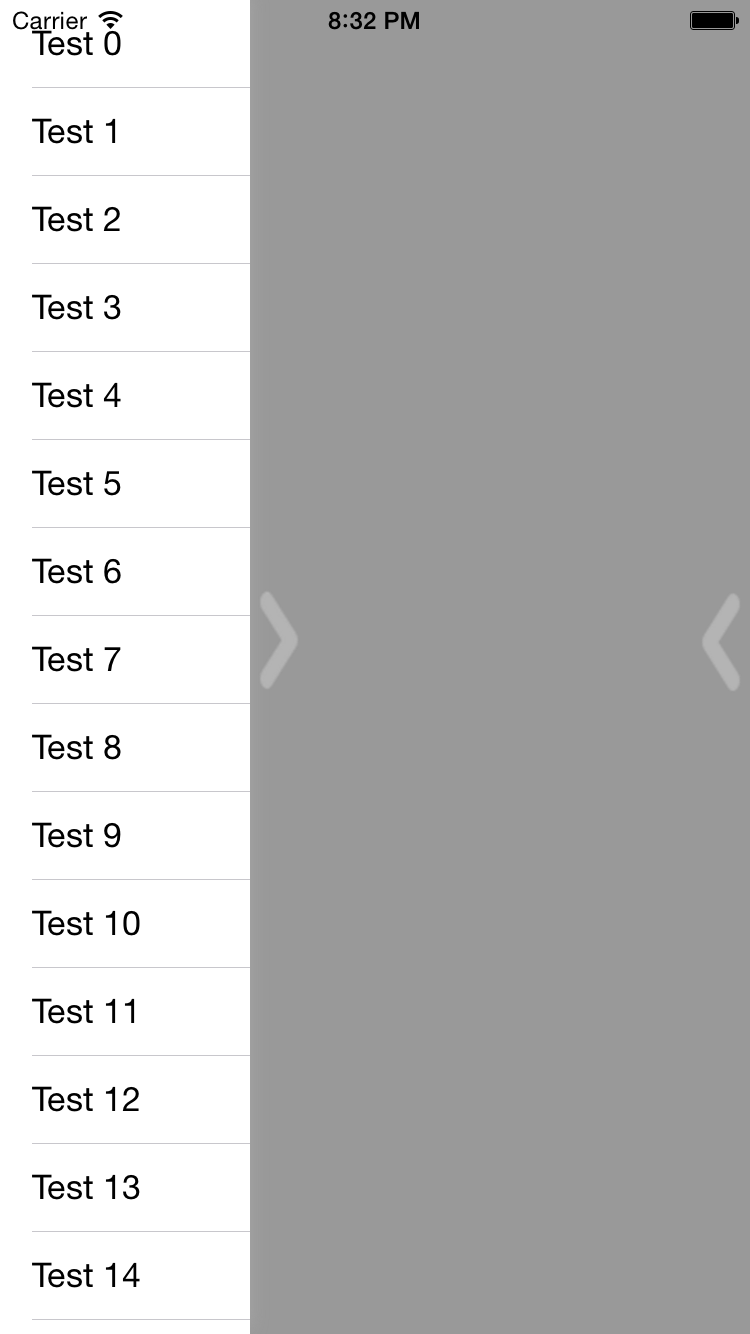
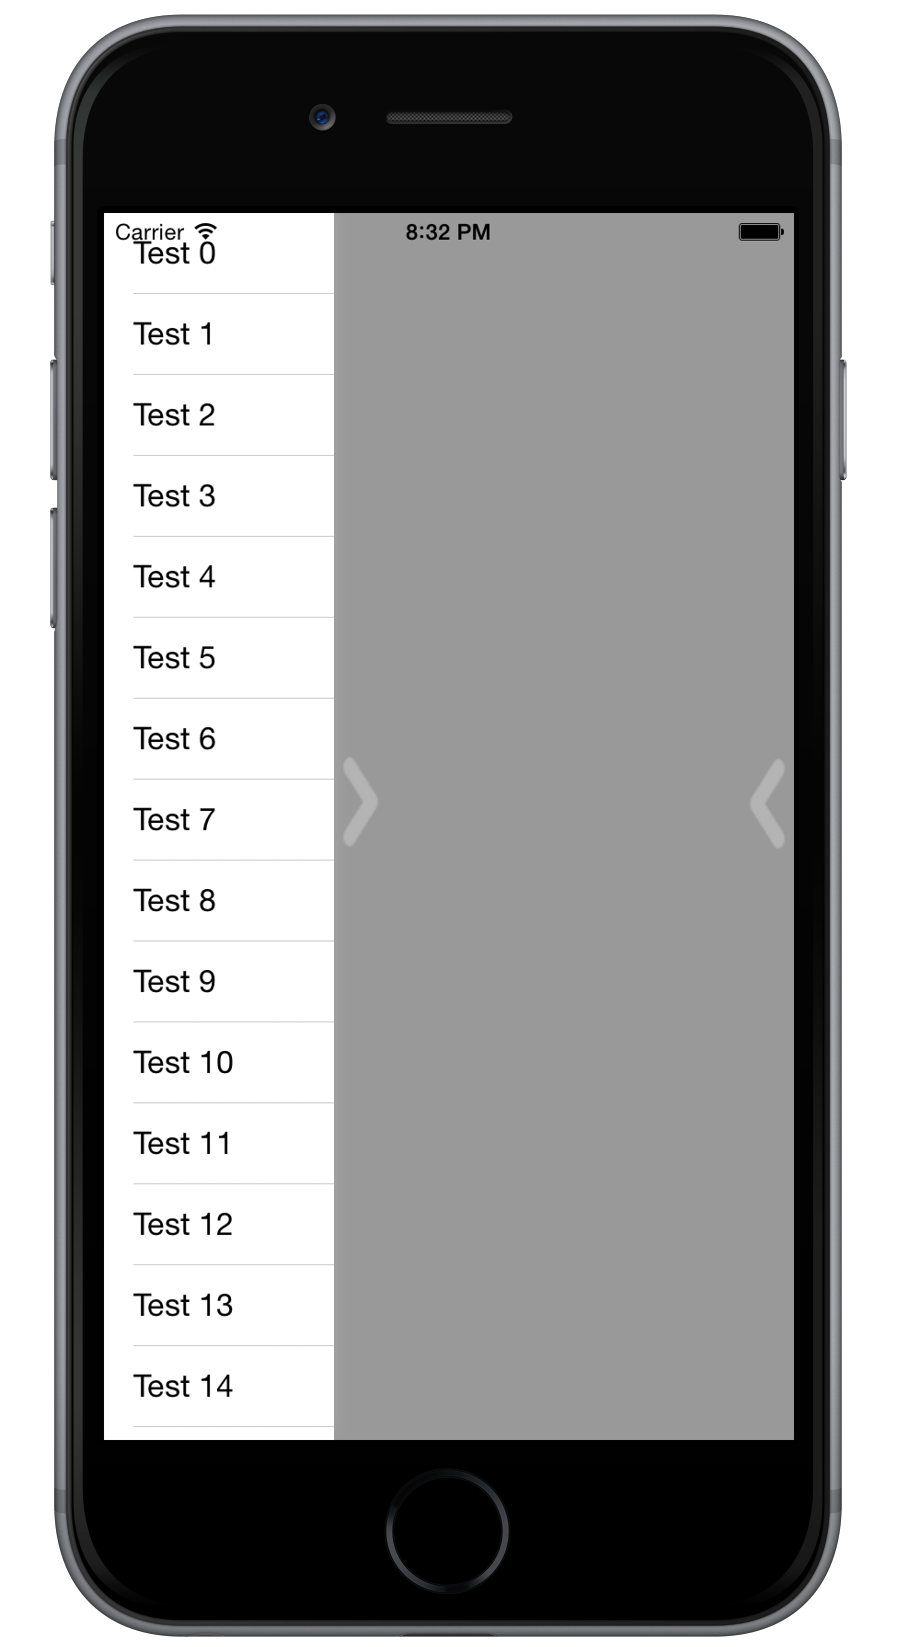
readme

diff --git a/README.md b/README.md
@@ -3,4 +3,6 @@
 
 Slidable panel that can be added to the left or right side.
 
-![](Screenshot.png =250x)
+The panel acts as an overlay, over the main screen.
+
+![](Screenshot.png =150x)
